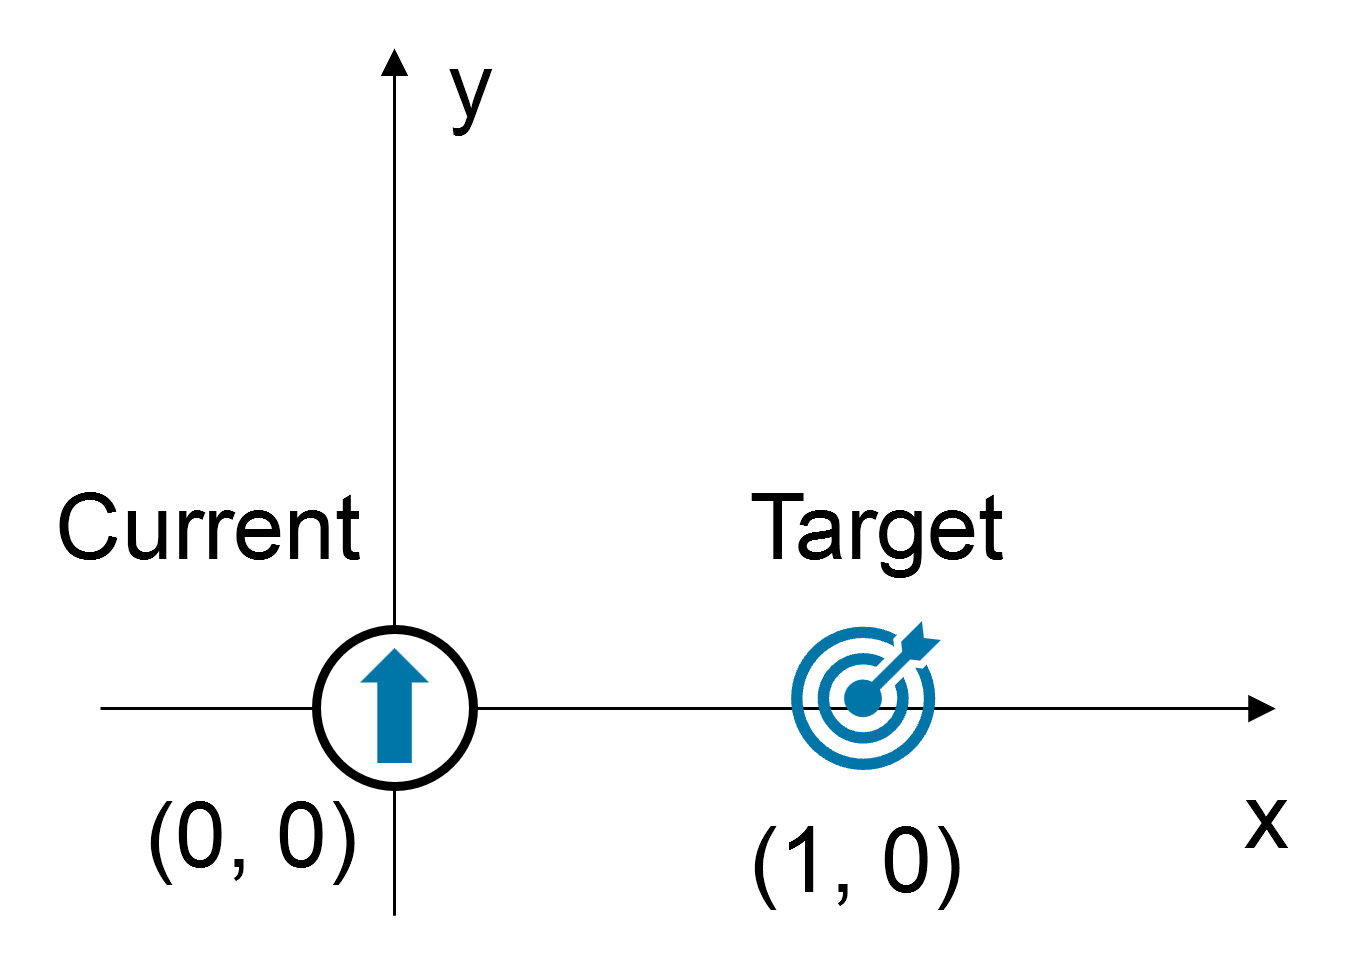
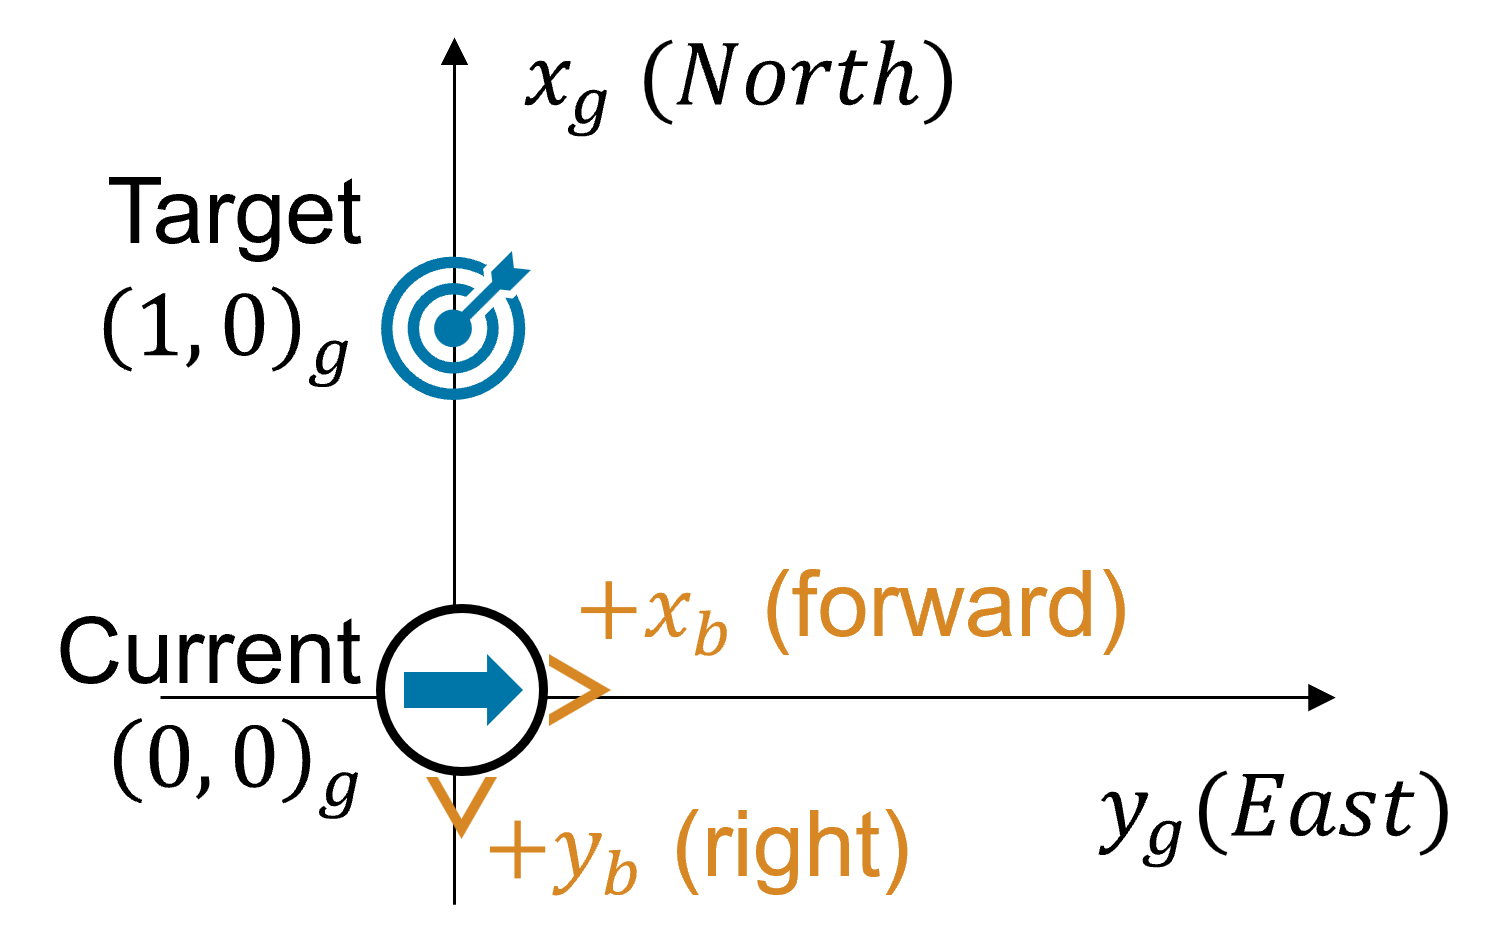
UAV101 Contents Updated
* Motor Mixing Matrix
* Fixed Exercise Problem (From an ordinary XY axes to NED)

diff --git a/pages/UAV101/no01_Airframe.md b/pages/UAV101/no01_Airframe.md
@@ -117,7 +117,7 @@ Simulink 모델을 구축하는 데 필요한 몇 가지 핵심 블록들이 있
 
 영상에 나오는 순서대로 모델을 그려나가보자면 아래와 같습니다. 세 단계의 모델로 구성되어 있으며 모델들은 아래 링크에서 받을 수 있습니다.
 
-👉[**Simulink Model 받으러 가기**](https://github.com/angeloyeo/Quadcopter_Lessons/tree/main/UAV_Quadcopter_Lessons/UAV_01_AirFrame/SimulinkModels/ModelsInVideo){:target="_blank"}
+👉[**Simulink Model 받으러 가기**](https://github.com/angeloyeo/Quadcopter_Lessons/tree/main/UAV_01_AirFrame){:target="_blank"}
 
 <center><img src="../../images/uav101/no01_Airframe/step1.jpg"/><br></center>
 
